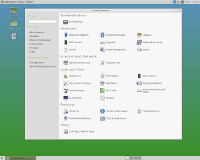
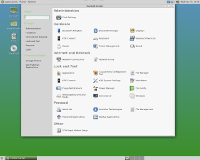
Updated for MATE 1.18 screenshots.

Changed region(s): [[0.03, 0.0, 0.96, 0.875], [0.03, 0.9688, 0.21, 1.0], [0.6, 0.9688, 0.72, 1.0]]

diff --git a/index.html b/index.html
@@ -33,7 +33,7 @@ type='text/css'>
            <p>The scripts are hosted in a <a
              href="https://github.com/mateslackbuilds/msb">Git repo</a> so feel
            free to test and offer suggestions, improvements, patches, etc.
-           Here are some obligatory screenshots of MATE 1.16 with its default
+           Here are some obligatory screenshots of MATE 1.18 with its default
            theme and background running on Slackware64-14.2:</p>
            <div id="screenshots">
              <a href="images/mate1.png"><img class="image"
@@ -82,7 +82,7 @@ type='text/css'>
            <li>A: All the /deps, /base and /extra packages should not take too much time to build
            on any reasonably modern machine.</li>
            <li>Q: Who is behind MATE SlackBuilds?</li>
-           <li>A: Willy Sudiarto Raharjo and Chess Griffin.  Please post
+           <li>A: Willy Sudiarto Raharjo and Chess Griffin (Inactive).  Please post
            bug reports at the Github repo or send us an email at
            mateslackbuilds@gmail.com</li>
 	   <li>Q: Are there any IRC support for MSB Project?</li>
